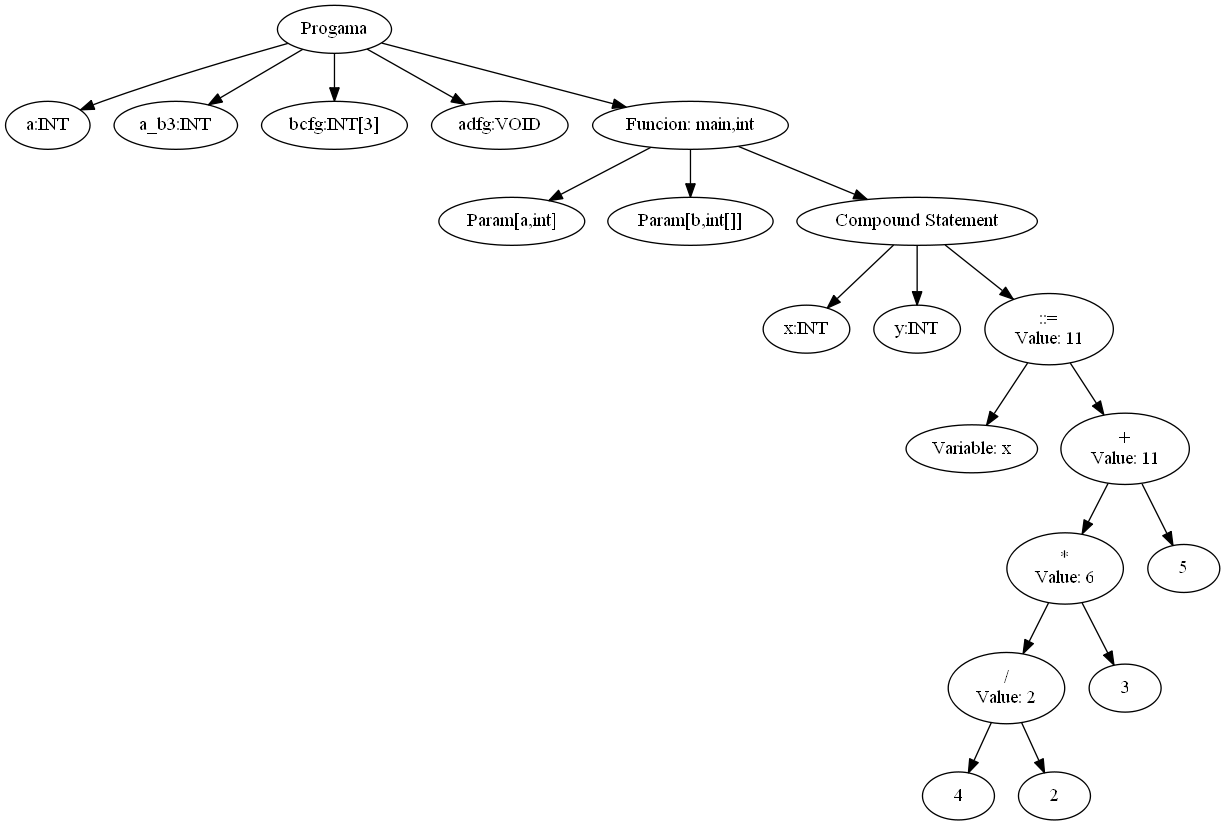
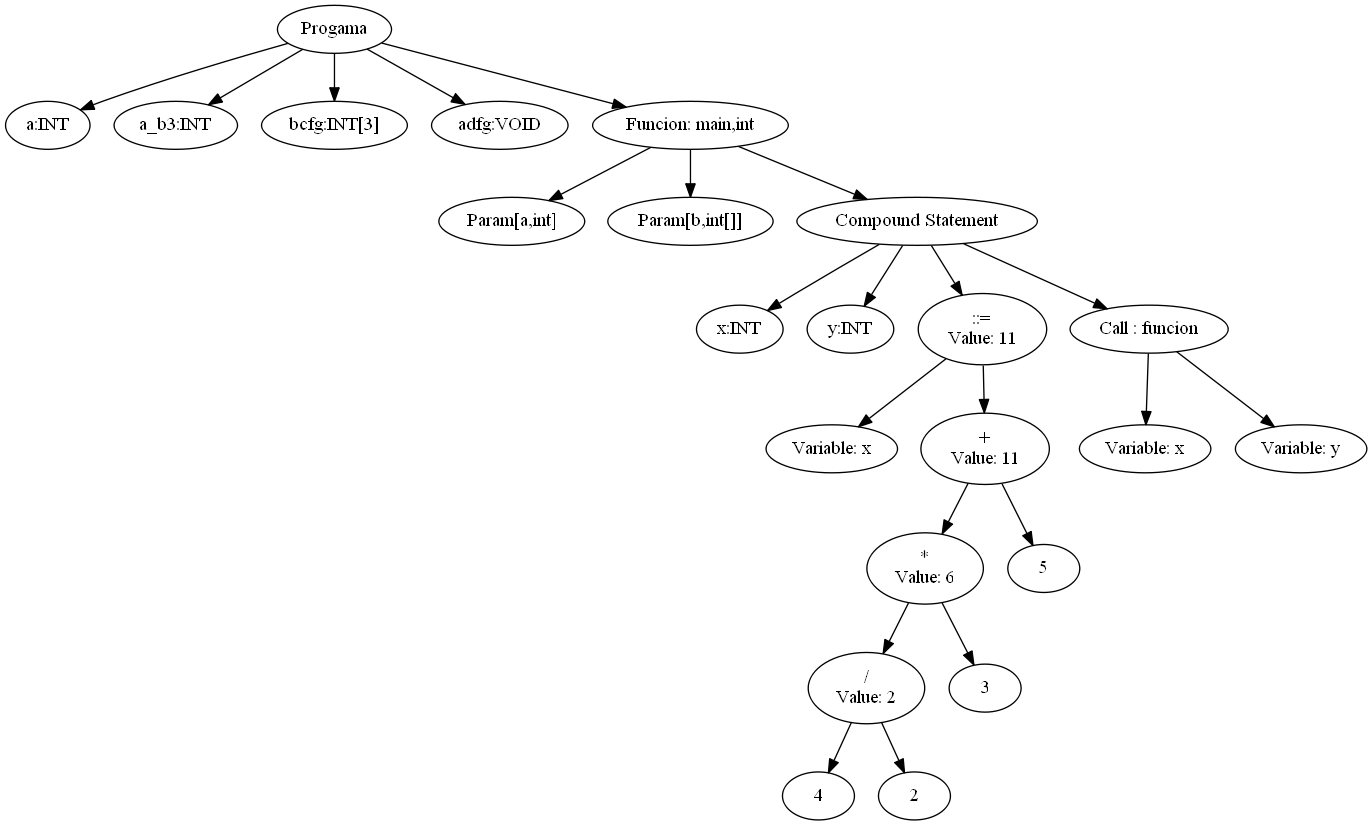
creacion de call en AST. arreglos en call y cup

diff --git a/Compilador/src/parser/Parser.java b/Compilador/src/parser/Parser.java
@@ -1,7 +1,7 @@
 
 //----------------------------------------------------
 // The following code was generated by CUP v0.11a beta 20060608
-// Wed Oct 21 18:50:56 ART 2015
+// Wed Oct 21 22:18:41 ART 2015
 //----------------------------------------------------
 
 package parser;
@@ -13,7 +13,7 @@ import ast.*;
 import Tables.*;
 
 /** CUP v0.11a beta 20060608 generated parser.
-  * @version Wed Oct 21 18:50:56 ART 2015
+  * @version Wed Oct 21 22:18:41 ART 2015
   */
 public class Parser extends java_cup.runtime.lr_parser {
 
@@ -367,8 +367,15 @@ class CUP$Parser$actions {
           /*. . . . . . . . . . . . . . . . . . . .*/
           case 69: // arg_list ::= expression 
             {
-              Object RESULT =null;
+              Nodo RESULT =null;
+		int exleft = ((java_cup.runtime.Symbol)CUP$Parser$stack.peek()).left;
+		int exright = ((java_cup.runtime.Symbol)CUP$Parser$stack.peek()).right;
+		Nodo ex = (Nodo)((java_cup.runtime.Symbol) CUP$Parser$stack.peek()).value;
 		
+                        //primer argumento, creo el nodo e ingreso la expresion a la lista.
+                        Call lista = new Call();
+                        lista.agregarArgumento(ex);
+                        RESULT=lista;
                     
               CUP$Parser$result = parser.getSymbolFactory().newSymbol("arg_list",32, ((java_cup.runtime.Symbol)CUP$Parser$stack.peek()), ((java_cup.runtime.Symbol)CUP$Parser$stack.peek()), RESULT);
             }
@@ -377,8 +384,22 @@ class CUP$Parser$actions {
           /*. . . . . . . . . . . . . . . . . . . .*/
           case 68: // arg_list ::= arg_list COMA expression 
             {
-              Object RESULT =null;
+              Nodo RESULT =null;
+		int listleft = ((java_cup.runtime.Symbol)CUP$Parser$stack.elementAt(CUP$Parser$top-2)).left;
+		int listright = ((java_cup.runtime.Symbol)CUP$Parser$stack.elementAt(CUP$Parser$top-2)).right;
+		Nodo list = (Nodo)((java_cup.runtime.Symbol) CUP$Parser$stack.elementAt(CUP$Parser$top-2)).value;
+		int exleft = ((java_cup.runtime.Symbol)CUP$Parser$stack.peek()).left;
+		int exright = ((java_cup.runtime.Symbol)CUP$Parser$stack.peek()).right;
+		Nodo ex = (Nodo)((java_cup.runtime.Symbol) CUP$Parser$stack.peek()).value;
 		
+                        if(ex != null){
+                            ((Call)list).agregarArgumento(ex);
+                        }else{
+                            //no deberia entrar aqui.
+                            list=new Call();
+                        }
+                        RESULT=list;
+
                     
               CUP$Parser$result = parser.getSymbolFactory().newSymbol("arg_list",32, ((java_cup.runtime.Symbol)CUP$Parser$stack.elementAt(CUP$Parser$top-2)), ((java_cup.runtime.Symbol)CUP$Parser$stack.peek()), RESULT);
             }
@@ -387,8 +408,11 @@ class CUP$Parser$actions {
           /*. . . . . . . . . . . . . . . . . . . .*/
           case 67: // args ::= empty 
             {
-              Object RESULT =null;
+              Nodo RESULT =null;
 		
+                    //en caso de que no haya argumentos, creo el nodo desde aqui.
+                    //ya que no se derivara arg_list.
+                    RESULT=new Call();
                 
               CUP$Parser$result = parser.getSymbolFactory().newSymbol("args",31, ((java_cup.runtime.Symbol)CUP$Parser$stack.peek()), ((java_cup.runtime.Symbol)CUP$Parser$stack.peek()), RESULT);
             }
@@ -397,8 +421,12 @@ class CUP$Parser$actions {
           /*. . . . . . . . . . . . . . . . . . . .*/
           case 66: // args ::= arg_list 
             {
-              Object RESULT =null;
+              Nodo RESULT =null;
+		int argleft = ((java_cup.runtime.Symbol)CUP$Parser$stack.peek()).left;
+		int argright = ((java_cup.runtime.Symbol)CUP$Parser$stack.peek()).right;
+		Nodo arg = (Nodo)((java_cup.runtime.Symbol) CUP$Parser$stack.peek()).value;
 		
+                    RESULT=arg;
                 
               CUP$Parser$result = parser.getSymbolFactory().newSymbol("args",31, ((java_cup.runtime.Symbol)CUP$Parser$stack.peek()), ((java_cup.runtime.Symbol)CUP$Parser$stack.peek()), RESULT);
             }
@@ -408,7 +436,17 @@ class CUP$Parser$actions {
           case 65: // call ::= ID PARENT_IZQ args PARENT_DER 
             {
               Nodo RESULT =null;
+		int idleft = ((java_cup.runtime.Symbol)CUP$Parser$stack.elementAt(CUP$Parser$top-3)).left;
+		int idright = ((java_cup.runtime.Symbol)CUP$Parser$stack.elementAt(CUP$Parser$top-3)).right;
+		String id = (String)((java_cup.runtime.Symbol) CUP$Parser$stack.elementAt(CUP$Parser$top-3)).value;
+		int argleft = ((java_cup.runtime.Symbol)CUP$Parser$stack.elementAt(CUP$Parser$top-1)).left;
+		int argright = ((java_cup.runtime.Symbol)CUP$Parser$stack.elementAt(CUP$Parser$top-1)).right;
+		Nodo arg = (Nodo)((java_cup.runtime.Symbol) CUP$Parser$stack.elementAt(CUP$Parser$top-1)).value;
 		
+                    //se ingresa la id al nodo en ascenso.
+                    ((Call)arg).setID(id);
+                    RESULT=arg;
+
                 
               CUP$Parser$result = parser.getSymbolFactory().newSymbol("call",30, ((java_cup.runtime.Symbol)CUP$Parser$stack.elementAt(CUP$Parser$top-3)), ((java_cup.runtime.Symbol)CUP$Parser$stack.peek()), RESULT);
             }

diff --git a/Compilador/src/ast/Call.java b/Compilador/src/ast/Call.java
@@ -1,0 +1,43 @@
+/*
+ * To change this license header, choose License Headers in Project Properties.
+ * To change this template file, choose Tools | Templates
+ * and open the template in the editor.
+ */
+package ast;
+
+import java.util.ArrayList;
+import syntaxVisitor.GrapherVisitor;
+
+/**
+ * Clase Nodo que guarda los datos de llas gramaticas 31 a 33.
+ * @author Jonathan Vasquez - Eduardo Tapia.
+ */
+public class Call extends Nodo implements visitaNodo {
+    String ID;
+    ArrayList<Nodo> listaArgs= new ArrayList<Nodo>();
+    
+    public Call(){}
+    
+    public void agregarArgumento(Nodo Expression){
+        this.listaArgs.add(Expression);
+    }
+    public void setID(String id){
+        this.ID=id;
+    }
+    public ArrayList<Nodo> getArgs(){
+        return this.listaArgs;
+    }
+    /**
+     * metodo que genera el codigo en graphviz del nodo call.
+     * @param contNodos la cantidad de nodos visitados.
+     * @return codigo generado.
+     */
+    public String toGrapher(int contNodos){
+        return "\"nodo"+contNodos+"\"[label=\"Call : "+this.ID+"\"]; \n";
+    }
+    @Override
+    public void aceptar(GrapherVisitor v) {
+        v.visitar(this);
+    }
+    
+}

diff --git a/Compilador/src/syntaxVisitor/GrapherVisitor.java b/Compilador/src/syntaxVisitor/GrapherVisitor.java
@@ -257,5 +257,29 @@ public class GrapherVisitor implements visitor {
         
         
     }
+
+    @Override
+    public void visitar(Call call) {
+        //obtengo el codigo graph del nodo call.
+        String ident = call.toGrapher(this.cantNodosVisitados);
+        //uno al codigo general.
+        this.codigoGraph += ident;
+        String [] delimitador=ident.split("\\[");
+        //enlazo el nodo con el padre.
+        String enlace =this.auxPadres.peek()+"->"+delimitador[0]+"; \n";
+        //guardo el enlace en el codigo general.
+        this.codigoGraph += enlace;
+        //guardo el nuevo nodo en la pila 
+        this.auxPadres.push(delimitador[0]);
+        //cuento como nodo visitado.
+        this.cantNodosVisitados++;
+        //visito los argumentos.
+        for(Nodo argumento : call.getArgs()){
+            argumento.aceptar(this);
+        }
+        //ya visto el subarbol de call, elimino la raiz .
+        this.auxPadres.pop();
+        
+    }
     
 }

diff --git a/Compilador/src/parser/sym.java b/Compilador/src/parser/sym.java
@@ -1,7 +1,7 @@
 
 //----------------------------------------------------
 // The following code was generated by CUP v0.11a beta 20060608
-// Wed Oct 21 18:50:56 ART 2015
+// Wed Oct 21 22:18:41 ART 2015
 //----------------------------------------------------
 
 package parser;

diff --git a/Compilador/src/visitor/visitor.java b/Compilador/src/visitor/visitor.java
@@ -19,4 +19,5 @@ public interface visitor {
     public void visitar(Compound componente);
     public void visitar(Expression expresion);
     public void visitar(Var var);
+    public void visitar(Call call);
 }
